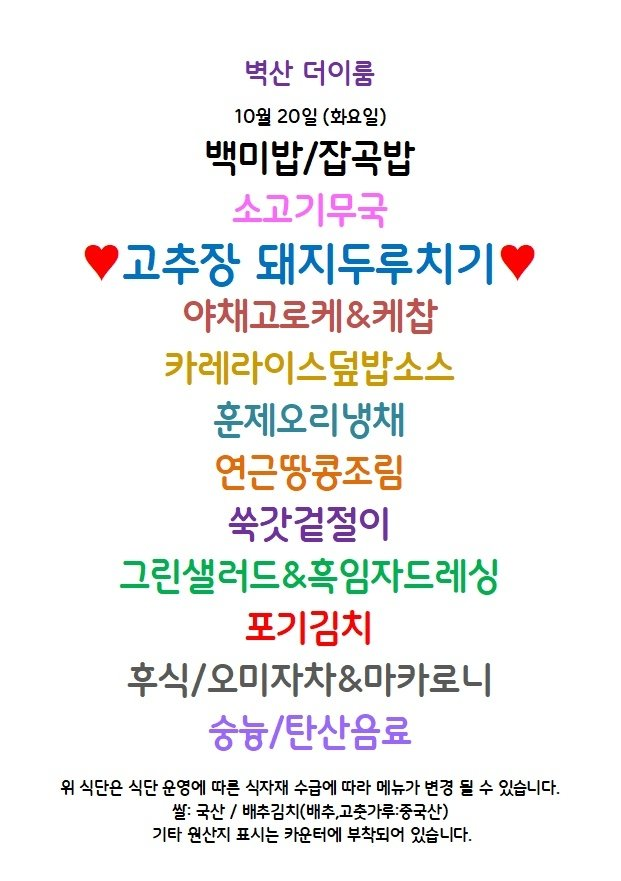
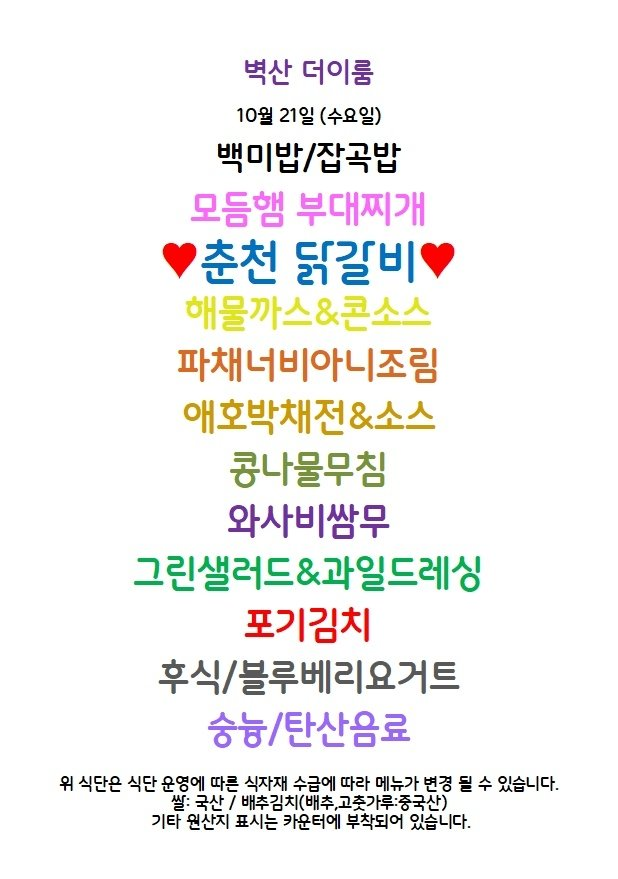
Update menu board assets

Changed region(s): [[0.0922, 0.1229, 0.8916, 0.9829], [0.3997, 0.0614, 0.6149, 0.0922]]

diff --git a/guro-menu/index.html b/guro-menu/index.html
@@ -32,7 +32,7 @@
   </header>
   <section class="meta">
     <div><small>기준 날짜</small><strong>2026년 10월 21일 수요일</strong></div>
-    <div><small>최종 갱신</small><strong>2026-10-21 09:03:41</strong></div>
+    <div><small>최종 갱신</small><strong>2026-10-21 09:13:14</strong></div>
     <div><small>등록 식당</small><strong>5개</strong></div>
   </section>
   <div class="notice">공개 카카오 채널의 메뉴 이미지를 자동 수집하고 OCR로 정리합니다. 텍스트에 오타가 있을 수 있으니 식단 이미지를 함께 확인해 주세요.</div>
@@ -89,8 +89,8 @@
           <a class="channel" href="https://pf.kakao.com/_xdLzxgG" target="_blank" rel="noopener">원본 채널</a>
         </div>
         <img class="menu-image" src="./images/byucksan-theirum.png" alt="벽산더이룸 식단 이미지" loading="lazy">
-        <p class="message">최신 공개 식단 이미지의 텍스트입니다. 날짜는 원본 이미지를 확인해 주세요.</p>
-        <ul><li>백미밥/잡곡밥</li><li>소고기무국</li><li>고추장 돼지두루치기</li><li>야채고로케&amp;케잡</li><li>카레라이스덮밥소스</li><li>운제오리냉채</li><li>연근땅콤조림</li><li>쑥갓겉절이</li><li>그린샐러드&amp;흑임자드레싱</li><li>포기김치</li><li>후식/오미자차&amp;마카로니</li><li>숭등/탄산음료</li><li>wf: 국산 / WHR ZA ws DEES)</li><li>기타 원산지 표시는 카운터에 부착되어 있습니다</li></ul>
+        
+        <ul><li>백미밥/잡곡밥</li><li>모듬햄 부대찌개</li><li>v 춘천 ane al v</li><li>파채너비아니조림</li><li>애호박채전&amp;소스</li><li>콤나물무침</li><li>와사비쌈무</li><li>그린샐러드&amp;과일드레싱</li><li>포기김치</li><li>후식/블루베리요거트</li><li>숭늉/탄산음료</li><li>BS: 국산 / MAA HE DEE SSA)</li><li>기타 원산지 표시는 카운터에 부착되어 있습니다</li></ul>
       </article>
 
       <article class="restaurant-card">

diff --git a/menu-today/index.html b/menu-today/index.html
@@ -209,7 +209,7 @@
 
     <section class="meta-bar">
       <div class="meta-card"><div class="meta-label">기준 날짜</div><div class="meta-value">2026년 10월 21일 수요일</div></div>
-      <div class="meta-card"><div class="meta-label">최종 가져온 시간</div><div class="meta-value">2026-10-21 09:03:29</div></div>
+      <div class="meta-card"><div class="meta-label">최종 가져온 시간</div><div class="meta-value">2026-10-21 09:13:02</div></div>
       <div class="meta-card"><div class="meta-label">확인 완료</div><div class="meta-value">9개 식당</div></div>
       <div class="meta-card"><div class="meta-label">준비중</div><div class="meta-value">3개 채널</div></div>
     </section>
